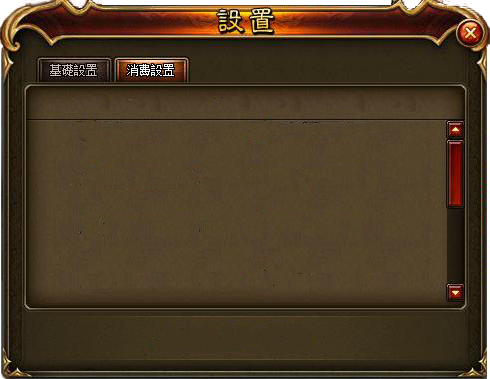
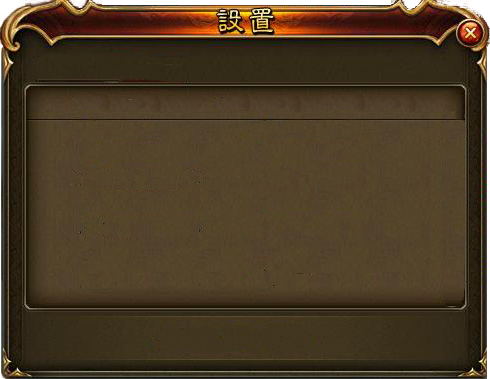
遊戲設置

diff --git a/src/sass/game.scss b/src/sass/game.scss
@@ -1,38 +1,152 @@
 @import './default/common';
 @import 'https://cdnjs.cloudflare.com/ajax/libs/font-awesome/5.15.1/css/all.min.css';
-
+.absolute{
+    position: absolute;
+}
+.circle{
+    border-radius: 50%;
+}
+.white{
+    color:#fff;
+}
 .w100 {
     width: 100%;
 }
-
 .h3 {
     font-size: $h3;
 }
-
 .v100w {
     width: 100vw;
 }
-
 .size60 {
     font-size: 60px;
 }
-
 #title {
     height: 400px;
 }
+#sound,#volume{
+-webkit-appearance: none;
+  width: 100px;
+  height: 7px;
+  outline : brown;
+  border:2px solid brown;      /* 避免點選會有藍線或虛線 */
+  background:rgb(121, 97, 61);
+&::-webkit-slider-thumb{
+  -webkit-appearance: none;
+  position: relative;    /* 設為相對位置，為了前後區塊的絕對位置而設定 */
+  width:10px;
+  height:10px;
+  background:#f22;
+  transition:.2s;        /* 點選放大時候的漸變時間 */
+}
+}
+.setpanel{
+    position: absolute;
+    background: url("../images/game/13868995569383.png");
+    background-size: contain;
+    background-repeat: no-repeat;
+    top:calc(50% - 230px);
+    left:calc(50% - 290px);
+    width: 590px;
+    height:455px;
+    opacity: 0;
+    z-index: -1;
+    transition: opacity 1s;
+}
+.bglightbox{
+    position: absolute;/* 不能用rerative 會佔位，落葉飄不下來*/
+    top: 0;
+    left: 0;
+    width: 1400px;
+    max-width: 100vw;
+    height: 600px;
+    background-color: rgba(116, 128, 10, 0.568);
+    /* 預設：完全透明；設定 z-index: -1 會在整個頁面的後方，看不到，才不會擋到頁面元素。 */
+    opacity: 0;
+    z-index: -1;
+    transition: opacity 1s;
+}
+.setpanel-x{
+    cursor: pointer;
+    right: calc(2% - 1px);
+    top: calc(6% - 2px);
+    width: 30px;
+    height: 30px;
+}
+.panelinner{
+    width: 500px;
+    height: 220px;
+    top: 145px;
+    left: calc(50% - 260px);
+    &>div{
+        margin:10px;
+    }
+}
+#frieball{
+    cursor: pointer;
+    position: relative;
+    left:30px;
+    -webkit-appearance: none;
+    font-size: 50px;
+    outline: none;
+    &:before{
+        position: absolute;
+        left: 60px;
+        top: 0px;
+        content: '';
+        width: 50px;
+        height: 30px;
+        transition: all 0.2s linear;
+        background-image: url('../images/game/7.gif');
+        background-size: contain;
+        background-repeat: no-repeat;
+    }
+    &:checked:before{
+        border:2px solid rgb(180, 87, 26);
+        outline: rgb(238, 204, 153);
+    }
+}
+#greenball{
+    cursor: pointer;
+    position: relative;
+    left:0px;
+    -webkit-appearance: none;
+    font-size: 50px;
+    outline: none;
+        &:before{
+        position: absolute;
+        left: 0px;
+        top: 0px;
+        content: '';
+        width: 50px;
+        height: 30px;
+        transition: all 0.2s linear;
+        background-image: url('../images/game/6.gif');
+        background-size: contain;
+        background-repeat: no-repeat;
+    }
+    &:checked:before{
+        border:2px solid rgba(172, 115, 31, 0.911);
+        outline: rgb(238, 204, 153);
 
+    }
+}
+.config{
+    background-image: url("../images/game/config.png");
+    background-repeat: no-repeat;
+    background-size: contain;
+    width:50px;
+    height:50px;
+}
 .banner {
     @include banner;
 }
-
 .banner-1st-title {
     @include banner-1st-title;
 }
-
 .x-auto {
     overflow-x: auto;
 }
-
 .pad10 {
     padding: 10px
 }
@@ -143,17 +257,18 @@ div.overlay {
 div.overlay.-on,
 div.gameover.-on,
 div.gamewin.-on,
-.tea_en.-on {
+.tea_en.-on,
+.setpanel.-on {
     /* 加上 -on 之後，Modal 漸漸出現，因為有設定 transition */
     opacity: 1;
     z-index: 701;
     display: block;
 }
-
 div.overlay.-opacity-zero,
 div.gameover.-opacity-zero,
 div.gamewin.-opacity-zero,
-.tea_en.-opacity-zero {
+.tea_en.-opacity-zero,
+div.setpanel.-opacity-zero {
     /* 關閉 Modal 時，先讓 opacity設定0，就會慢慢變成完全透明，但這時會擋到後面的元素，所以要再移除 -on 及 -opacity-zero 這兩個 class */
     opacity: 0;
 }

diff --git a/src/06_game.html b/src/06_game.html
@@ -9,8 +9,26 @@
         <link rel="stylesheet" href="./css/game.css" />
         <link rel="stylesheet" href="./css/flex.css" />
         <!-- <script src="https://cdnjs.cloudflare.com/ajax/libs/vue/2.6.12/vue.js"></script> -->
-        
-        <script src="../node_modules/jquery/dist/jquery.min.js"></script>
+                <script src="../node_modules/jquery/dist/jquery.min.js"></script>
+        <!-- <script src="https://cdnjs.cloudflare.com/ajax/libs/jquery/3.5.1/jquery.min.js"></script> -->
+        <style>
+            #sound{
+            -webkit-appearance: none;
+            width: 100px;
+            height: 7px;
+            outline : brown;
+            border:2px solid brown;      /* 避免點選會有藍線或虛線 */
+            background:rgb(121, 97, 61);
+        }
+        #sound::-webkit-slider-thumb{
+            -webkit-appearance: none;
+            position: relative;    /* 設為相對位置，為了前後區塊的絕對位置而設定 */
+            width:10px;
+            height:10px;
+            background:#f22;
+            transition:.2s;        /* 點選放大時候的漸變時間 */
+        }
+        </style>
     </head>
     <body>
         @@include('layout/nav.html')
@@ -60,6 +78,25 @@
                             </div>
                         </article>
                     </section>
+                </div>
+                <div class="setpanel">
+                    <div class="absolute circle setpanel-x"  onclick="config()"></div>
+                    <div class="panelinner absolute" >
+                        <div>
+                            <label for="" class="white">遊戲音樂：<input type="range"class="rangecostom" max="1" min="0" step="0.01" value="1" id="volume" oninput="volume(this)"></label>
+                        </div>
+                        <div>
+                            <label for="" class="white">遊戲音效：<input type="range"class="rangecostom" max="1" min="0" step="0.01" value="1" id="sound" oninput="sou(this)"></label>
+                        </div>
+                        <div class="white flex">
+                            <p>子彈樣式：</p>
+                            <input type="radio" name="ball"value="./images/game/6.gif" onclick="ballstyle(this)" id="greenball" checked>
+                            <input type="radio" name="ball"value="./images/game/7.gif" onclick="ballstyle(this)" id="frieball">
+                        </div>
+                        <div>
+                            <p class="white">聯絡我們：postintw@gmail.com</p>
+                        </div>
+                    </div>
                 </div>
                 <div class="gameover bglightbox">
                     <article>
@@ -167,7 +204,7 @@
                 </ul>
                 <section id="botbar" class="flex">
                     <div class="flex a_c j_c">
-
+                        <div class="config" ></div>
                     </div>
                     <div class="pad10 y-flex a_c">
                         <span style="color: #000; font-size: 20px;white-space:nowrap;">計分</span>
@@ -206,6 +243,9 @@
 				<span>25</span>`;
                 document.getElementById('props').appendChild(li);
                });         
+               function sou(vol) {
+                bomb.volume = vol.value;
+                }
         </script>
         <!--<script src="./js/game.js"></script> -->
         @@include('layout/footer.html')

diff --git a/src/js/game (1).js b/src/js/game (1).js
@@ -39,7 +39,8 @@ var star = 25,
   var init_worm,
   init_walk,
   init_Bullet,
-  init_shot;
+  init_shot,
+  ballimg=['./images/game/6.gif'];
 var sp_,
   time_b_,
   bb__,
@@ -126,7 +127,8 @@ function createBullet(speed, damage, left) {
   img.dataset.speed = speed;
   img.dataset.damage = damage;
   img.style.left = left + 'px';
-  img.src = '../dist/images/game/6.gif';
+  img.src = ballimg[0];
+  // '../dist/images/game/6.gif'
   road.appendChild(img);
   return img;
 }
@@ -310,6 +312,22 @@ $('#teatxt-bar1').on('click', function () {
       $("div.tea_en").removeClass("-on -opacity-zero");
     }, 1000); // 關閉 Modal
 })
+$('div.config').on('click', function () {
+  $('div.setpanel').addClass('-on');
+});
+function volume(vol) {
+  song.volume = vol.value;
+}
+function ballstyle(path) {
+  ballimg[0] = path.value;
+}
+function config() {
+        $("div.setpanel").addClass("-opacity-zero");
+    // 設定隔一秒後，移除相關 class
+    setTimeout(function(){
+      $("div.setpanel").removeClass("-on -opacity-zero");
+    }, 1000); // 關閉 Modal
+}
 var pause = document.getElementById('checkbox');
 $('#checkbox').on('click', function(){
   if (pause.checked === true) {
@@ -351,11 +369,11 @@ function gamestop() {
   tween.pause();
 
 }
+
 // 開啟 Modal 彈跳視窗
 document.getElementById('replay').onclick = function () {
   location.reload();
 };
-
 
 //時間到開啟通關燈箱
 var tween = TweenLite.to(demo,300,{

diff --git a/src/js/game2.js b/src/js/game2.js
@@ -2,12 +2,9 @@
 //由上起算第二路有woromArr、plantArr
 //降落星星茶葉打算用tweenMax下降以控制暫停pause(),繼續resume(),碰到邊界要自我刪除kill()
 //用var img = document.createElement("img");產生得來的可否能用tweenLiteMax(img,2,{y:9});
-/* 變數統一用k<3
-完成三個道路放置植物
+/*  
 間隔一段時間生成子彈 time_b()包{createBullet()}
 createBullet()注意road.appendChild要把road改成要針對的物件
-改寫----
-讓子彈飛
 bb_()改成shot(){};for(var k=0;k<3;k++){};
 產生子彈，改變 對象.appendChild
 time_b()改成Bullet_init
@@ -60,7 +57,8 @@ function addBullet(speed, damage, left,o) {
   img.dataset.speed = speed;
   img.dataset.damage = damage;
   img.style.left = left + 'px';
-  img.src = '../dist/images/game/6.gif';
+  img.src = ballimg[0];
+  // '../dist/images/game/6.gif'
   o.appendChild(img);
   //o換上way[k];
   return img;
